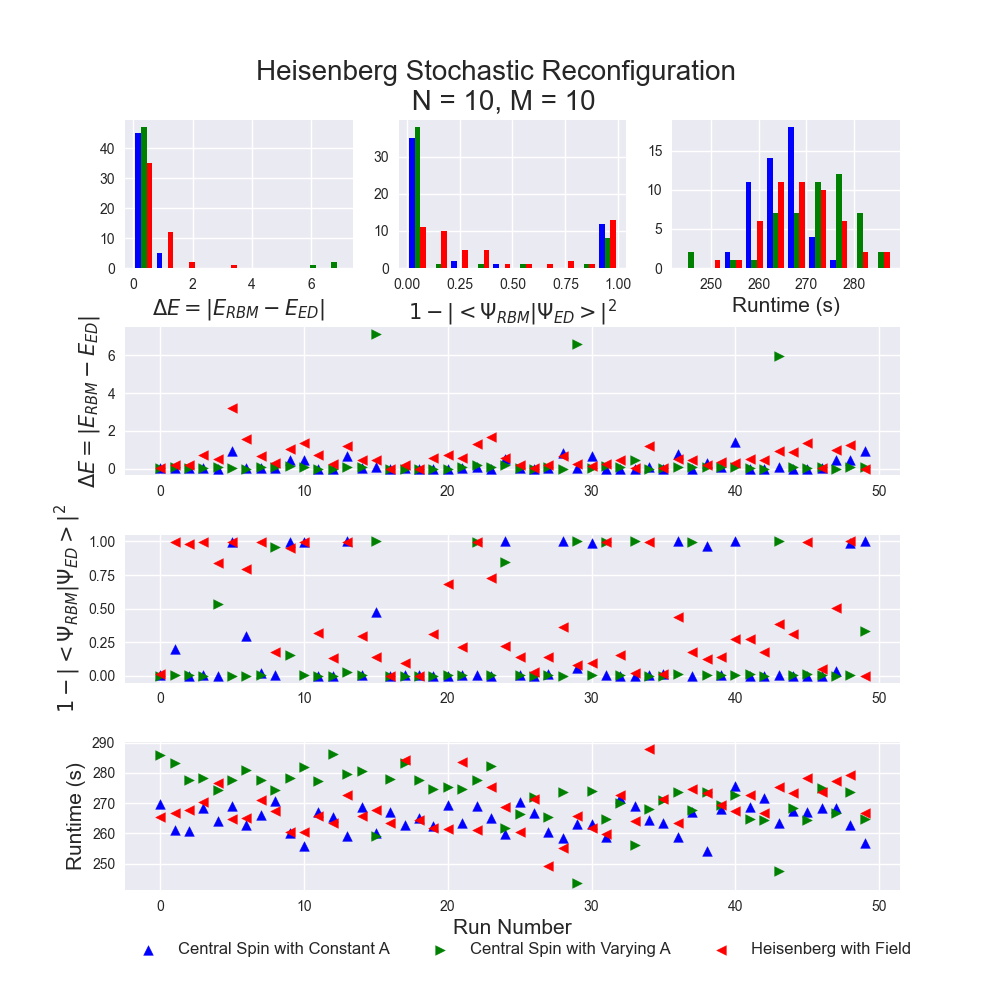
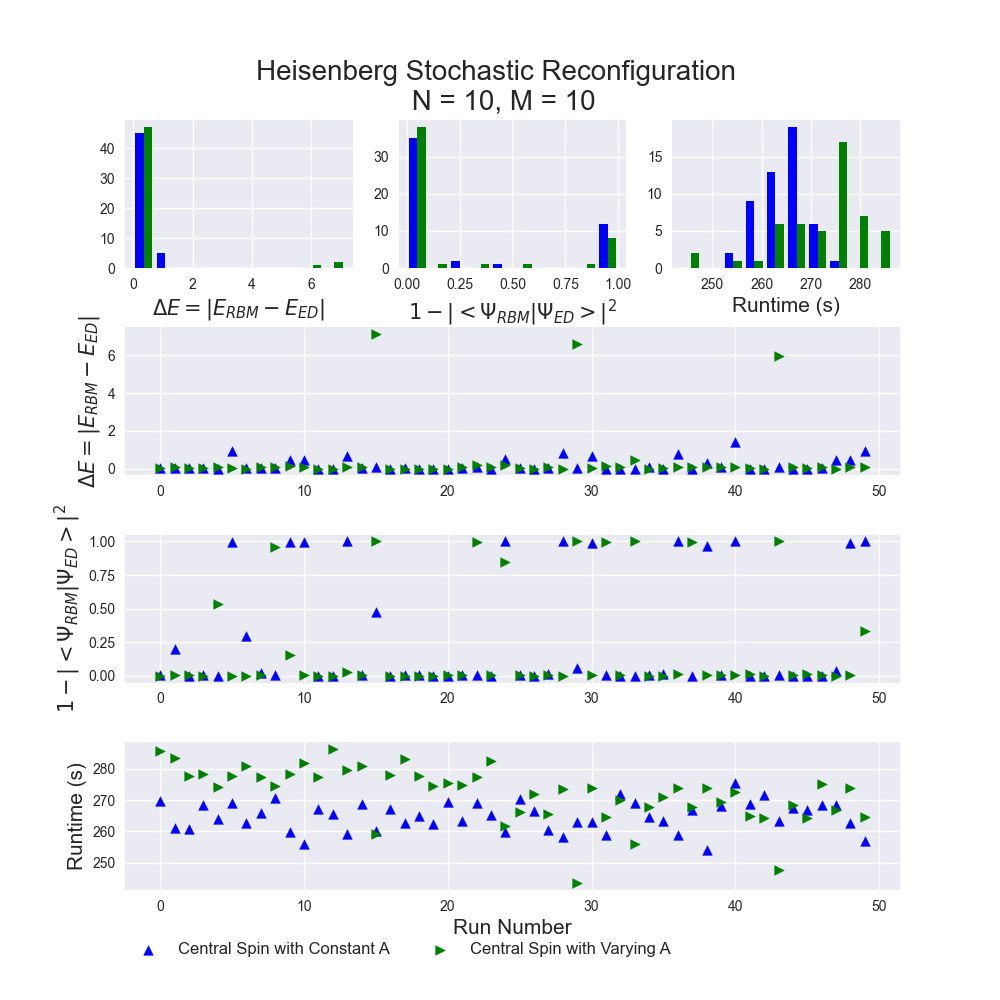
Heisenberg Data
Ran with J=1,h=5

diff --git a/PlotOrganizedCompare.py b/PlotOrganizedCompare.py
@@ -46,11 +46,11 @@ engErrHeiFAll = []
 stateErrHeiFAll = []
 runTimeHeiFAll = []
 
-NListHeiF = np.arange(2,11)
+NListHeiF = np.arange(2,8)
 for i in range(len(NListHeiF)):
     N = NListHeiF[i]
     M=N
-    dataLocation = "Data/11-17-20/heiN"+str(N)+"M" + str(M)+".json"
+    dataLocation = "Data/11-17-20/hei5N"+str(N)+"M" + str(M)+".json"
     saved = []
     with open(dataLocation) as file:
         for line in file:
@@ -182,52 +182,52 @@ for i in range(len(engErrSRAll)):
 print('Number Removed cs', csRem)
 #
 # ***** Histogram ****
-index = 8
-N = index+2
-M = N
-hisIt= np.arange(50)
-#plt.figure(constrained_layout=True)
-plt.figure(figsize=(10,10))
-engErr = [engErrSRAll[index],engErrVarAll[index],engErrHeiFAll[index]]
-stateErr= [stateErrSRAll[index],stateErrVarAll[index],stateErrHeiFAll[index]]
-runTime= [runTimeSRAll[index],runTimeVarAll[index],runTimeHeiFAll[index]]
-
-labels = ['Central Spin with Constant A','Central Spin with Varying A','Heisenberg with Field']
-colors = ['blue', 'green', 'red']
-ttl = plt.suptitle("Heisenberg Stochastic Reconfiguration \n N = " + str(N)+", M = " + str(M),size =20)
-gs = gridspec.GridSpec(ncols=3, nrows=4, hspace = 0.4)
-ttl.set_position([.5, 0.94])
-ax1 = plt.subplot(gs[0, 0])
-ax1.hist(engErr, bins=10, color = colors, label=labels)
-ax1.set_xlabel("$\Delta E = |E_{RBM}-E_{ED}|$",size = 15)
-ax2 = plt.subplot(gs[0, 1])
-ax2.hist(stateErr, bins=10, color = colors, label=labels)
-ax2.set_xlabel("$1-|<\Psi_{RBM}|\Psi_{ED}>|^2$",size = 15)
-
-ax3 = plt.subplot(gs[0, 2])
-ax3.hist(runTime, bins=10, color = colors, label=labels)
-ax3.set_xlabel("Runtime (s)",size = 15)
-
-ax4 = plt.subplot(gs[1, :])
-ax4.scatter(hisIt, engErrSRAll[index], color = colors[0], label=labels[0], marker = '^')
-ax4.scatter(hisIt, engErrVarAll[index], color = colors[1], label=labels[1], marker = '>')
-ax4.scatter(hisIt, engErrHeiFAll[index], color = colors[2], label=labels[2], marker = '<')
-ax4 .set_ylabel("$\Delta E = |E_{RBM}-E_{ED}|$", size = 15)
-
-ax4 = plt.subplot(gs[2, :])
-ax4.scatter(hisIt, stateErrSRAll[index], color = colors[0], label=labels[0], marker = '^')
-ax4.scatter(hisIt, stateErrVarAll[index], color = colors[1], label=labels[1], marker = '>')
-ax4.scatter(hisIt, stateErrHeiFAll[index], color = colors[2], label=labels[2], marker = '<')
-ax4 .set_ylabel("$1-|<\Psi_{RBM}|\Psi_{ED}>|^2$", size = 15)
-
-ax5 = plt.subplot(gs[3, :])
-ax5.scatter(hisIt, runTimeSRAll[index], color = colors[0], label=labels[0], marker = '^')
-ax5.scatter(hisIt, runTimeVarAll[index], color = colors[1], label=labels[1], marker = '>')
-ax5.scatter(hisIt, runTimeHeiFAll[index], color = colors[2], label=labels[2], marker = '<')
-ax5.set_xlabel("Run Number",size = 15)
-ax5 .set_ylabel("Runtime (s)", size = 15)
-ax5.legend(labels, loc = (0, -0.5),fontsize = 12,ncol=3)
-plt.show()
+# index = 8
+# N = index+2
+# M = N
+# hisIt= np.arange(50)
+# #plt.figure(constrained_layout=True)
+# plt.figure(figsize=(10,10))
+# engErr = [engErrSRAll[index],engErrVarAll[index]]#,engErrHeiFAll[index]]
+# stateErr= [stateErrSRAll[index],stateErrVarAll[index]]#,stateErrHeiFAll[index]]
+# runTime= [runTimeSRAll[index],runTimeVarAll[index]]#,runTimeHeiFAll[index]]
+#
+# labels = ['Central Spin with Constant A','Central Spin with Varying A']#,'Heisenberg with Field']
+# colors = ['blue', 'green']#, 'red']
+# ttl = plt.suptitle("Heisenberg Stochastic Reconfiguration \n N = " + str(N)+", M = " + str(M),size =20)
+# gs = gridspec.GridSpec(ncols=3, nrows=4, hspace = 0.4)
+# ttl.set_position([.5, 0.94])
+# ax1 = plt.subplot(gs[0, 0])
+# ax1.hist(engErr, bins=10, color = colors, label=labels)
+# ax1.set_xlabel("$\Delta E = |E_{RBM}-E_{ED}|$",size = 15)
+# ax2 = plt.subplot(gs[0, 1])
+# ax2.hist(stateErr, bins=10, color = colors, label=labels)
+# ax2.set_xlabel("$1-|<\Psi_{RBM}|\Psi_{ED}>|^2$",size = 15)
+#
+# ax3 = plt.subplot(gs[0, 2])
+# ax3.hist(runTime, bins=10, color = colors, label=labels)
+# ax3.set_xlabel("Runtime (s)",size = 15)
+#
+# ax4 = plt.subplot(gs[1, :])
+# ax4.scatter(hisIt, engErrSRAll[index], color = colors[0], label=labels[0], marker = '^')
+# ax4.scatter(hisIt, engErrVarAll[index], color = colors[1], label=labels[1], marker = '>')
+# #ax4.scatter(hisIt, engErrHeiFAll[index], color = colors[2], label=labels[2], marker = '<')
+# ax4 .set_ylabel("$\Delta E = |E_{RBM}-E_{ED}|$", size = 15)
+#
+# ax4 = plt.subplot(gs[2, :])
+# ax4.scatter(hisIt, stateErrSRAll[index], color = colors[0], label=labels[0], marker = '^')
+# ax4.scatter(hisIt, stateErrVarAll[index], color = colors[1], label=labels[1], marker = '>')
+# #ax4.scatter(hisIt, stateErrHeiFAll[index], color = colors[2], label=labels[2], marker = '<')
+# ax4 .set_ylabel("$1-|<\Psi_{RBM}|\Psi_{ED}>|^2$", size = 15)
+#
+# ax5 = plt.subplot(gs[3, :])
+# ax5.scatter(hisIt, runTimeSRAll[index], color = colors[0], label=labels[0], marker = '^')
+# ax5.scatter(hisIt, runTimeVarAll[index], color = colors[1], label=labels[1], marker = '>')
+# #\ax5.scatter(hisIt, runTimeHeiFAll[index], color = colors[2], label=labels[2], marker = '<')
+# ax5.set_xlabel("Run Number",size = 15)
+# ax5 .set_ylabel("Runtime (s)", size = 15)
+# ax5.legend(labels, loc = (0, -0.5),fontsize = 12,ncol=3)
+# plt.show()
 
 
 # #***** Run Time Scaling ******
@@ -268,23 +268,23 @@ plt.show()
 
 
 # # ***** State Error Scaling ******
-# plt.figure(constrained_layout=True)
-# plt.figure(figsize=(8,8))
-# labels = ['Central Spin with Constant A', 'Central Spin with Varying A']#,'Heisenberg with Field']
-# colors = ['blue', 'green', 'red']
-# ttl = plt.suptitle("State Error Scaling \n"+r"Stochastic Reconfiguration with $\alpha = 1$" ,size =20)
-# gs = gridspec.GridSpec(ncols=1, nrows=1, hspace = 0.4)
-# ttl.set_position([.5, 0.97])
-# ax1 = plt.subplot(gs[0, 0])
-# #ax1.set_ylim(-0.2,1)
-# ax1.scatter(NListSR, avStateErrSR, color = colors[0], label=labels[0], marker = '^')
-# ax1.scatter(NListVar, avStateErrVar, color = colors[1], label=labels[1], marker = '>')
-# #ax1.scatter(NListHeiF, avStateErrHeiF, color = colors[2], label=labels[2], marker = '<')
-# ax1.set_xlabel("N",size = 15)
-# ax1.set_ylabel("Average State Error",size = 15)
-# ax1.legend(labels, loc = (0.03, -0.13),fontsize = 12,ncol=3)
-# #ax1.set_yscale('log')
-# plt.show()
+plt.figure(constrained_layout=True)
+plt.figure(figsize=(8,8))
+labels = ['Central Spin with Constant A', 'Central Spin with Varying A','Heisenberg with Field']
+colors = ['blue', 'green', 'red']
+ttl = plt.suptitle("State Error Scaling \n"+r"Stochastic Reconfiguration with $\alpha = 1$" ,size =20)
+gs = gridspec.GridSpec(ncols=1, nrows=1, hspace = 0.4)
+ttl.set_position([.5, 0.97])
+ax1 = plt.subplot(gs[0, 0])
+#ax1.set_ylim(-0.2,1)
+ax1.scatter(NListSR, avStateErrSR, color = colors[0], label=labels[0], marker = '^')
+ax1.scatter(NListVar, avStateErrVar, color = colors[1], label=labels[1], marker = '>')
+ax1.scatter(NListHeiF, avStateErrHeiF, color = colors[2], label=labels[2], marker = '<')
+ax1.set_xlabel("N",size = 15)
+ax1.set_ylabel("Average State Error",size = 15)
+ax1.legend(labels, loc = (0.03, -0.13),fontsize = 12,ncol=3)
+#ax1.set_yscale('log')
+plt.show()
 
 # # ***** Number of Runs******
 # plt.figure(constrained_layout=True)

diff --git a/GroundStateOrganized.py b/GroundStateOrganized.py
@@ -142,7 +142,8 @@ def err(state, edState, eng, edEng):
     return engErr, waveFunctionErr
 
 # Initializes random RBM parameters
-def ranPar(N, M, ma):
+def ranPar(N, alpha, ma):
+    M = alpha * N
     #Makes list of random parameters between -1,1
     np.random.seed(int.from_bytes(os.urandom(4), byteorder='little'))
     par = 1 - 2 * np.random.rand(2 * (N + M + N * M))
@@ -170,7 +171,7 @@ def runDescentCS(N,B,A,alpha):
     # Define machine
     ma = nk.machine.RbmSpin(alpha=alpha, hilbert=hi, use_visible_bias=True, use_hidden_bias=True)
     # Initialize the RBM parameters
-    ranPar(N, M, ma)
+    ranPar(N, alpha, ma)
     # Initialize RBM
     rbm = RBM(N, ha, hi, ma)
     # Run RBM
@@ -183,7 +184,8 @@ def runDescentCSVarA(N, B, A, N0,alpha):
     # Define machine
     ma = nk.machine.RbmSpin(alpha=alpha, hilbert=hi, use_visible_bias=True, use_hidden_bias=True)
     # Initialize the RBM parameters
-    ranPar(N, M, ma)
+    ranPar(N, M, ma) # THIS IS CHANGED FROM THE NetKet INITIALIZATION
+    # ma.init_random_parameters(1) # NetKet Initialization
     rbm = RBM(N, ha, hi, ma)
     eng, state, runTime = rbm("Logs/CSVarA"+str(N))
     return eng, state, runTime
@@ -194,65 +196,63 @@ def runDescentHei(N,J,h,alpha):
     # Define machine
     ma = nk.machine.RbmSpin(alpha=alpha, hilbert=hi, use_visible_bias=True, use_hidden_bias=True)
     # Initialize the RBM parameters
-    ranPar(N, M, ma)
+    ranPar(N, alpha, ma)
     rbm = RBM(N, ha, hi, ma)
     eng, state, runTime = rbm("Logs/Hei"+str(N))
     return eng, state, runTime
 
-# # *****   Running information
-#
-# # Parameters
-# alpha = 1
-# J=1
-# h=0.5
-# # List of N values
-# NList = np.arange(2,11)
-#
-# for i in range(len(NList)):
-#     # Hamiltionian Parameters
-#     N = NList[i]
-#     B = N/2
-#     A = N/2
-#     M = alpha*N
-#     N0 = N/2
-#     # Define hamiltonian and hilbert space
-#     # ha, hi = CSHam(N,B,A)
-#     # ha, hi = CSVarAHam(N,B,A,N0)
-#     ha,hi = heiHam(N,J,h)
-#
-#     # # Exact Diagonalization
-#     e,v = exactDigonalization(ha)
-#     edEng = e[0]
-#     edState = v[0]
-#
-#     # Lists for Histogram Data
-#     numRuns = 50
-#     hisIt = np.arange(numRuns)
-#     engErr = []
-#     stateErr = []
-#     runTime = []
-#
-#     # Node Information
-#     ncpus = int(os.environ.get('SLURM_CPUS_PER_TASK',default=50))
-#     pool = mp.Pool(processes=ncpus)
-#     # Run Descent
-#     resultsSR = [pool.apply(runDescentHei, args=(N,J,h,alpha)) for x in hisIt]
-#
-#     # Get errors for each run in histogram
-#     for i in range(len(hisIt)):
-#         engTemp, stateTemp, runTimeTemp = resultsSR[i]
-#         runTime.append(runTimeTemp)
-#         errSR = err(stateTemp, edState, engTemp, edEng)
-#         engErr.append(errSR[0])
-#         stateErr.append(errSR[1])
-#
-#
-#     #Save data to JSON file
-#     data = [engErr, stateErr, runTime]
-#     fileName = "Data/11-17-20/heiN"+str(N)+"M" + str(M)+".json"
-#     open(fileName, "w").close()
-#     with open(fileName, 'a') as file:
-#         for item in data:
-#             line = json.dumps(item)
-#             file.write(line + '\n')
-#     print('SAVED')
+# *****   Running information
+
+# Parameters
+alpha = 1
+J=1
+h=0.5
+# List of N values
+NList = np.arange(2,11)
+
+for i in range(len(NList)):
+    # Hamiltionian Parameters
+    N = NList[i]
+    B = 1
+    A = 1
+    M = alpha*N
+    # Define hamiltonian and hilbert space
+    ha, hi = CSHam(N,B,A)
+
+
+    # # Exact Diagonalization
+    e,v = exactDigonalization(ha)
+    edEng = e[0]
+    edState = v[0]
+
+    # Lists for Histogram Data
+    numRuns = 1
+    hisIt = np.arange(numRuns)
+    engErr = []
+    stateErr = []
+    runTime = []
+
+    # Node Information
+    ncpus = int(os.environ.get('SLURM_CPUS_PER_TASK',default=50))
+    pool = mp.Pool(processes=ncpus)
+    # Run Descent
+    resultsSR = [pool.apply(runDescentCS, args=(N,B,A,alpha)) for x in hisIt]
+
+    # Get errors for each run in histogram
+    for i in range(len(hisIt)):
+        engTemp, stateTemp, runTimeTemp = resultsSR[i]
+        runTime.append(runTimeTemp)
+        errSR = err(stateTemp, edState, engTemp, edEng)
+        engErr.append(errSR[0])
+        stateErr.append(errSR[1])
+
+
+    # #Save data to JSON file
+    # data = [engErr, stateErr, runTime]
+    # fileName = "Data/11-17-20/heiN"+str(N)+"M" + str(M)+".json"
+    # open(fileName, "w").close()
+    # with open(fileName, 'a') as file:
+    #     for item in data:
+    #         line = json.dumps(item)
+    #         file.write(line + '\n')
+    # print('SAVED')
